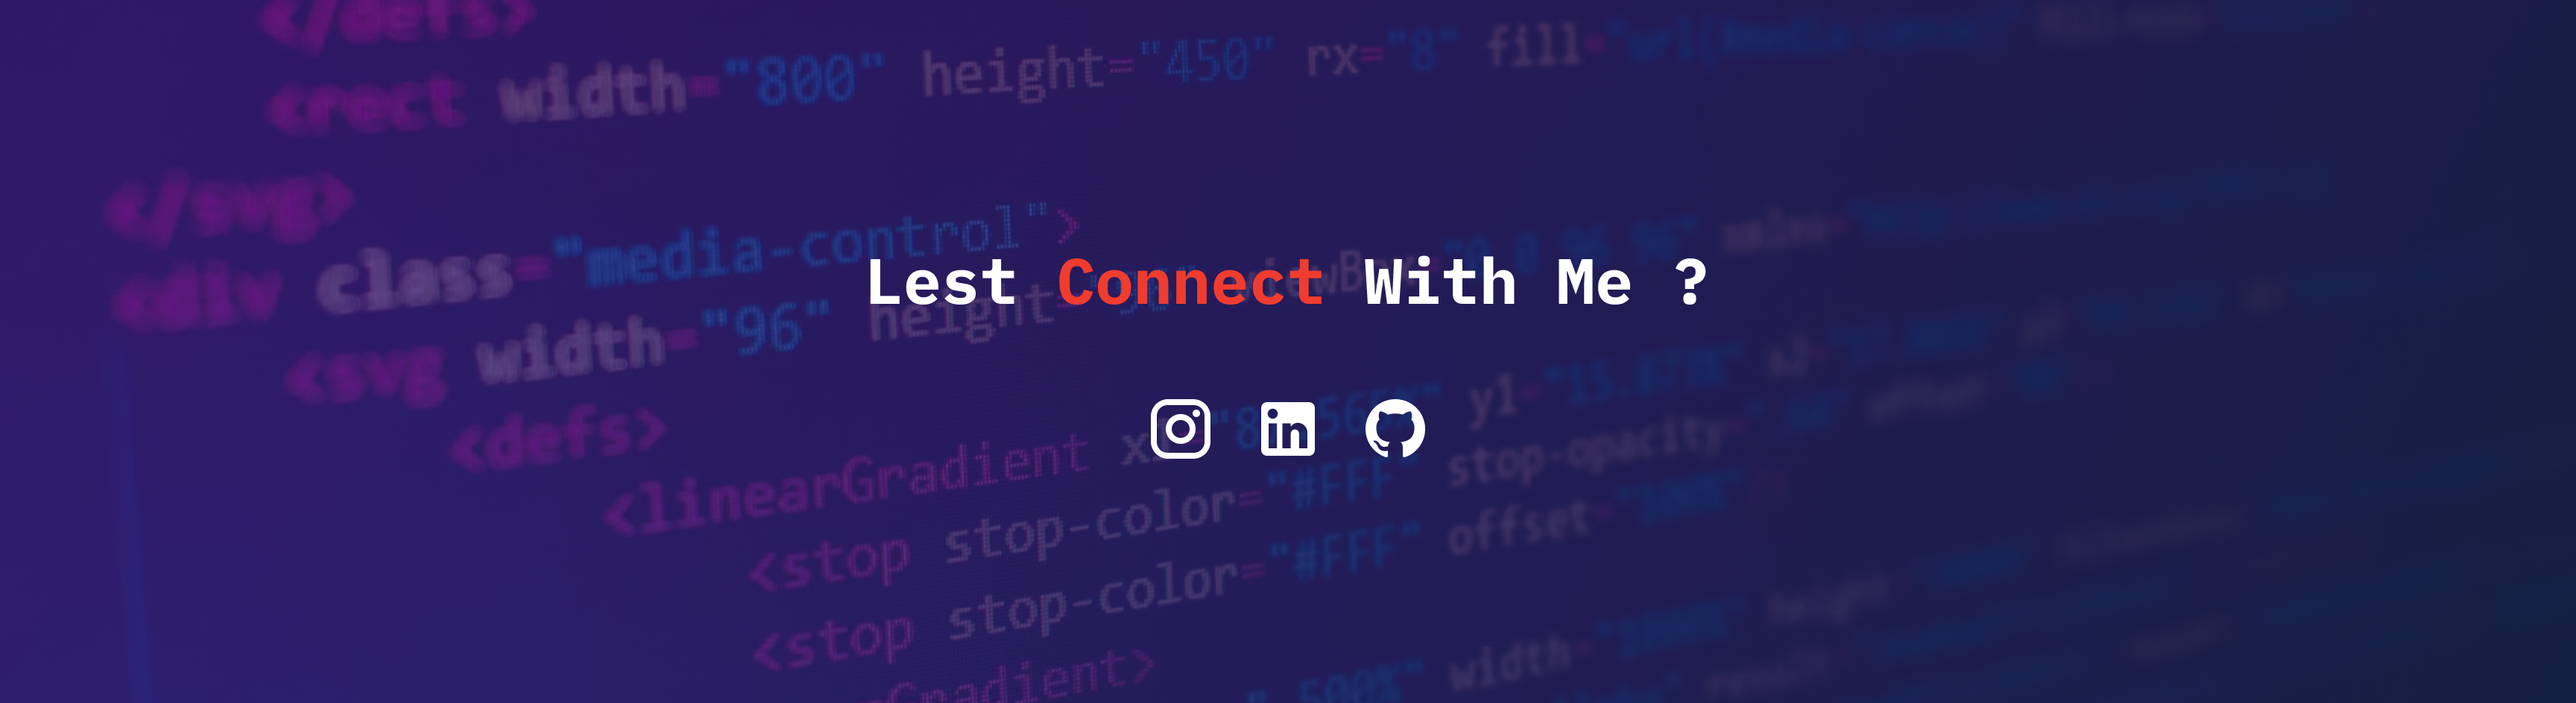
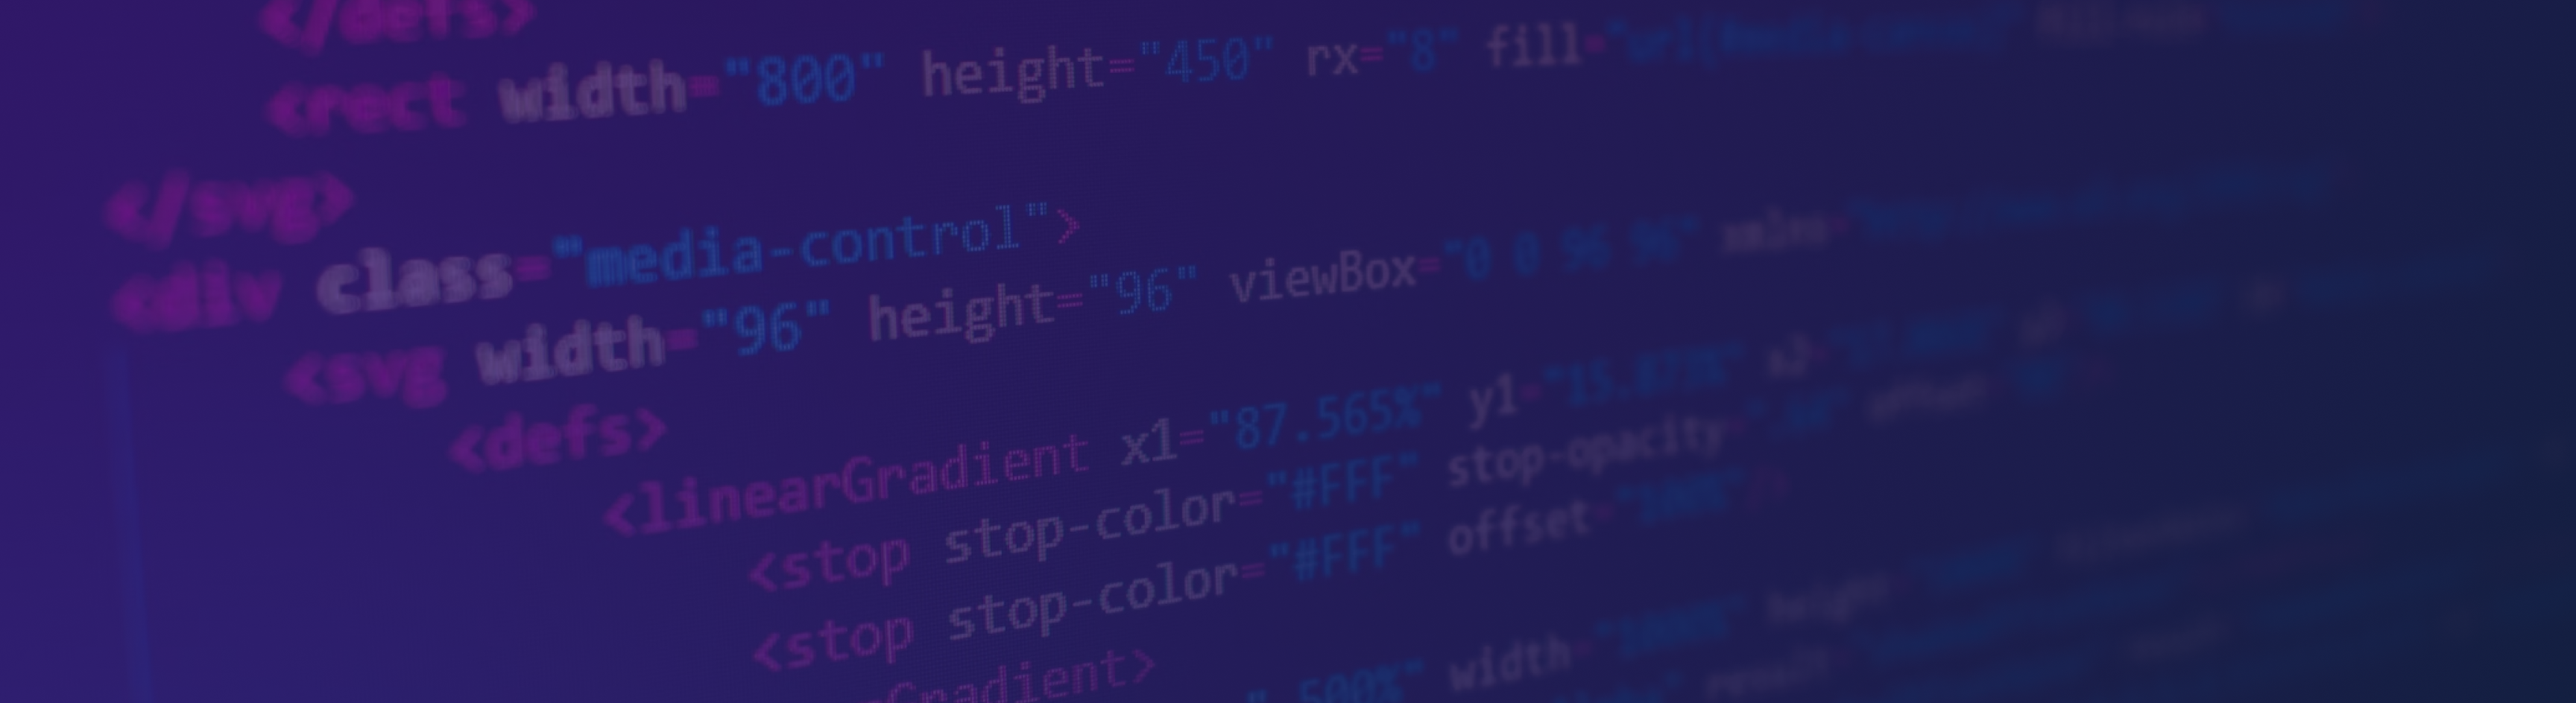
mengubah style navbar dan hero pada header

Changed region(s): [[0.3125, 0.3686, 0.6875, 0.4301], [0.4375, 0.553, 0.5625, 0.6758]]

diff --git a/assets/css/style.css b/assets/css/style.css
@@ -38,13 +38,7 @@ body {
 h1, h2, h3, h4, h5 {
       font-family: var(--font-primary);
       user-select: none;
-}
-nav {
-      padding: 1.5rem 10.19% 1.5rem;
-}
-section {
-      min-height: 100vh;
-      padding: 7.5rem 20.19% 2.5rem;
+      line-height: 130%;
 }
 .link {
       font-family: var(--font-primary);
@@ -59,11 +53,10 @@ section {
 }
 .headline, .title {
       font-size: 2.685rem;
-      line-heigt: 130%;
 }
 .text-body, .subtitle, .label {
       font-size: 1.125rem;
-      line-height: 180%;
+      line-heigth: 180%;
 }
 .bold {
       font-weight: 800;
@@ -92,152 +85,99 @@ section {
 .text-end {
       text-align: right;
 }
+
+header {
+      min-height: 100vh;
+      padding: 13.75rem 0 1.5rem;
+      display: flex;
+      flex-wrap: wrap;
+      background-image: url(../images/hero/2.png);
+      background-size: cover;
+      background-position: center;
+}
+.container-fluid,
 .container {
       display: flex;
+      width: 100%;
 }
-
+.container-fluid {
+      padding: 0 13.88%;
+}
+.container {
+      padding: 0 20.37%;
+}
+#hero,
 #navbar {
+      width: 100%;
+      display: flex;
+      justify-content: center;
+}
+#hero .footer .link .icon,
+#hero .content .headline,
+#navbar .brand,
+#navbar .menu .link {
+      color:#fff;
+} 
+#hero .footer .link:hover .icon,
+#navbar .brand,
+#navbar .menu .link {
+      transition: .3s ease-in-out;
+}
+#hero .footer .link:hover .icon,
+#navbar .brand:hover,
+#navbar .menu .link:hover {
+      color: var(--color-blue-30);
+      opacity: 1;
+}
+#navbar {
+      padding: 1.5rem 0;
       position: fixed;
       top: 0;
       left: 0;
       right: 0;
+      z-index: 999;
 }
-#navbar .container {
-      align-items: center;
+#navbar .container-fluid {
       justify-content: space-between;
-}
-#navbar .hamburger,
-#navbar .menu,
-#navbar .brand {
-      flex: 1;
+      align-items: center;
 }
 #navbar .menu {
-      width: 100%;
-      max-width: 29.25rem;
+      width: 32.5%;
       display: flex;
-      justify-content: space-between;
+      justify-content:space-between;
 }
-#navbar .hamburger {
+#navbar .toggle {
       display: none;
 }
 #navbar .menu .link {
+      padding: 1rem;
       display: block;
-      padding: 0.5rem 1rem;
-}
-#navbar .brand,
-#navbar .hamburger .icon,
-#navbar .menu .link {
-      color: #fff;
-      transition-duration: .3s;
-}
-#navbar .brand:hover,
-#navbar .hamburger:hover .icon,
-#navbar .menu .link:hover {
-      color: var(--color-blue-30);
-}
-
-section#hero {
-      background-image: url(../images/hero/2.png);
-      background-size: cover;
-      background-position: center;
-      padding: 10rem 20.19% 1.5rem;
-      display: flex;
-      justify-content: center;
+      opacity: 0.6;
 }
 #hero .container {
-      width: 100%;
-      max-width: 1024px;
       flex-wrap: wrap;
 }
-#hero .display, #hero .footer {
-      width: 100%;
+#hero .footer,
+#hero .content {
+      width: inherit;
+      display: flex;
+      align-items: center;
+      flex-direction: column;
 }
-#hero .display img {
+#hero .content img {
       width: 15.625rem;
-      heigth: 15.625rem;
+      height: 15.625rem;
       margin-bottom: 4rem;
 }
-#hero .headline {
+#hero .content .headline {
       margin-bottom: 1rem;
 }
-#hero .subheadline {
-      color:var(--color-red-30);
+#hero .content .subheadline {
+      color: var(--color-red-30);
 }
 #hero .footer {
-      margin-top:auto;
-      display: flex;
-      justify-content: center;
+      justify-content: end;
 }
 #hero .footer .link {
-      display: flex;
-      flex-direction: column;
-      justify-content: center;
-      align-items: center;
-}
-#hero .footer .icon {
-      margin-top: 0.5rem;
-}
-#hero .footer .link,
-#hero .footer .icon,
-#hero .display .headline {
-      color: #fff;
-}
-#hero .footer .link,
-#hero .footer .link .icon {
-      transition-duration: .3s;
-}
-#hero .footer .link:hover,
-#hero .footer .link:hover .icon {
-      color:var(--color-blue-30);
-}
-
-
-/* laptop */
-@media screen and (max-width: 1360px) {
-      html {
-            font-size: 90%;
-      }
-}
-
-/* full HD */
-@media screen and (max-width: 1024px) {
-      html {
-            font-size: 87%;
-      }
-}
-
-/*  */
-@media screen and (max-width: 576px) {
-      html {
-            font-size: 75%;
-      }
-      #navbar .menu {
-            width: 50%;
-            padding: 2rem 0;
-            background: var(--color-purple-10);
-            border-radius: 0.5rem 0 0 0.5rem;
-            position: absolute;
-            top: 100%;
-            right: -100%;
-            flex-direction: column;
-            transition-duration: .3s;
-      }
-      #navbar .menu.active {
-            right: 0;
-      }
-      #navbar .menu .link {
-            padding: 1rem 0;
-      }
-      #navbar .hamburger {
-            display: block;
-      }
-      
-}
-@media screen and (max-width: 450px) {
-      html {
-            font-size: 65%;
-      }
-      section#hero {
-            padding: 10rem 10.19% 1.5rem;
-      }
+      padding: 1rem;
 }

diff --git a/index.html b/index.html
@@ -12,41 +12,41 @@
       <script src="https://unpkg.com/feather-icons"></script>
       <!-- css -->
       <link rel="stylesheet" href="./assets/css/style.css">
-
-
 </head>
 <body>
-      <!-- navbar -->
-      <nav id="navbar">
-            <div class="container">
-                  <a href="#" class="brand bold">VCK</a>
-                  <div class="menu text-center">
-                        <a href="#" class="link">Home</a>
-                        <a href="#" class="link">About</a>
-                        <a href="#" class="link">Skill</a>
-                        <a href="#" class="link">Contact</a>
-                  </div>
-                  <div class="hamburger text-end">
-                        <i data-feather="menu" class="icon" id="hamburger"></i>
-                  </div>
-            </div>
-      </nav>
-
-      <!-- hero -->
-      <section id="hero">
-            <div class="container">
-                  <div class="display text-center">
-                        <img src="./assets/images/hero/1.png" alt="">
-                        <h1 class="headline">Iam Vickri Agustian</h1>
-                        <h5 class="subheadline">Frontend Engineer</h5>
-                  </div>
-                  <div class="footer text-center">
-                        <a href="#" class="link" id="hamburger">
-                              <i data-feather="arrow-down-circle" class="icon"></i>
+      <!-- header -->
+      <header>
+            <nav id="navbar">
+                  <div class="container-fluid">
+                        <a href="#" class="brand bold">V<span>C</span>K</a>
+                        <div class="menu">
+                              <a href="#" class="link">Home</a>
+                              <a href="#" class="link">About</a>
+                              <a href="#" class="link">Skill</a>
+                              <a href="#" class="link">Contact</a>
+                        </div>
+                        <a href="#" class="toggle">
+                              <i class="icon" data-feather="menu"></i>
                         </a>
                   </div>
+            </nav>
+            <div id="hero">
+                  <div class="container">
+                        <div class="content text-center">
+                              <img src="./assets/images/hero/1.png" alt="profile">
+                              <h1 class="headline bold">Iam Vickri Agustian</h1>
+                              <h4 class="subheadline">Frontend Engineer</h4>
+                              
+                        </div>
+                        <div class="footer">
+                              <a href="#" class="link">
+                                    <i class="icon" data-feather="arrow-down-circle"></i>
+                              </a>
+                        </div>
+                  </div>
             </div>
-      </section>
+      </header>
+
       <!-- javascript -->
       <script>
             feather.replace()
